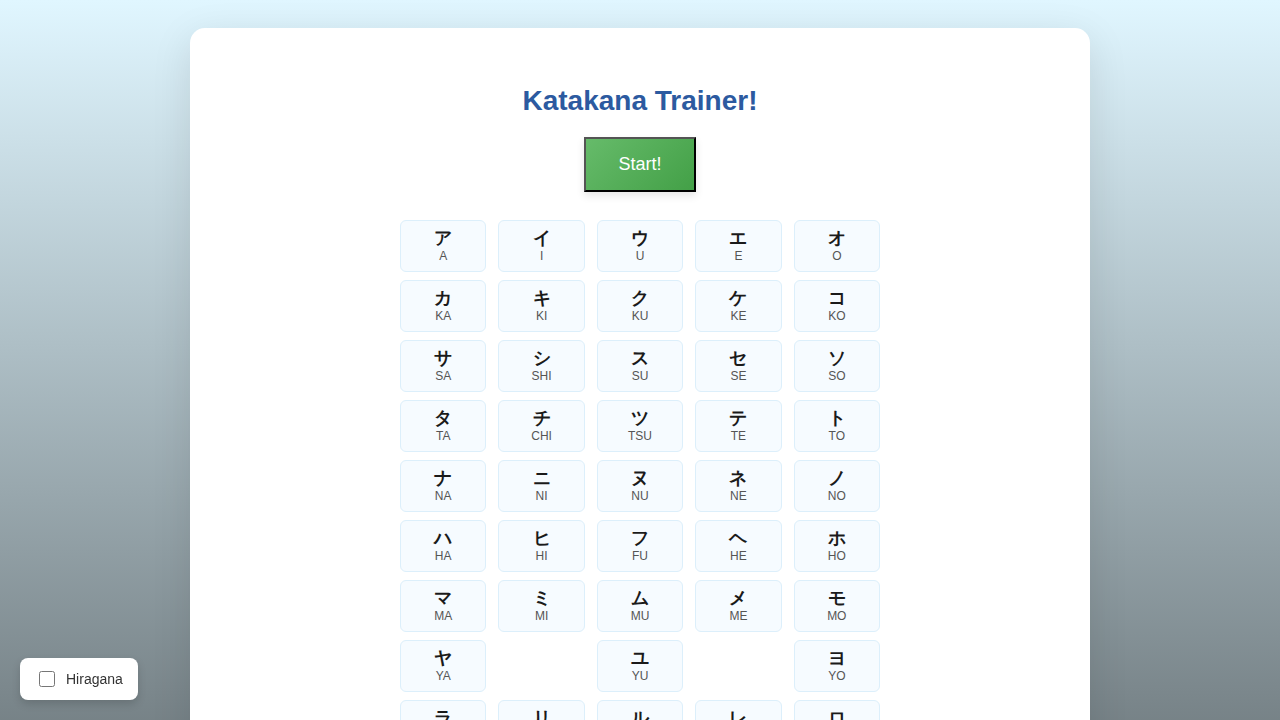
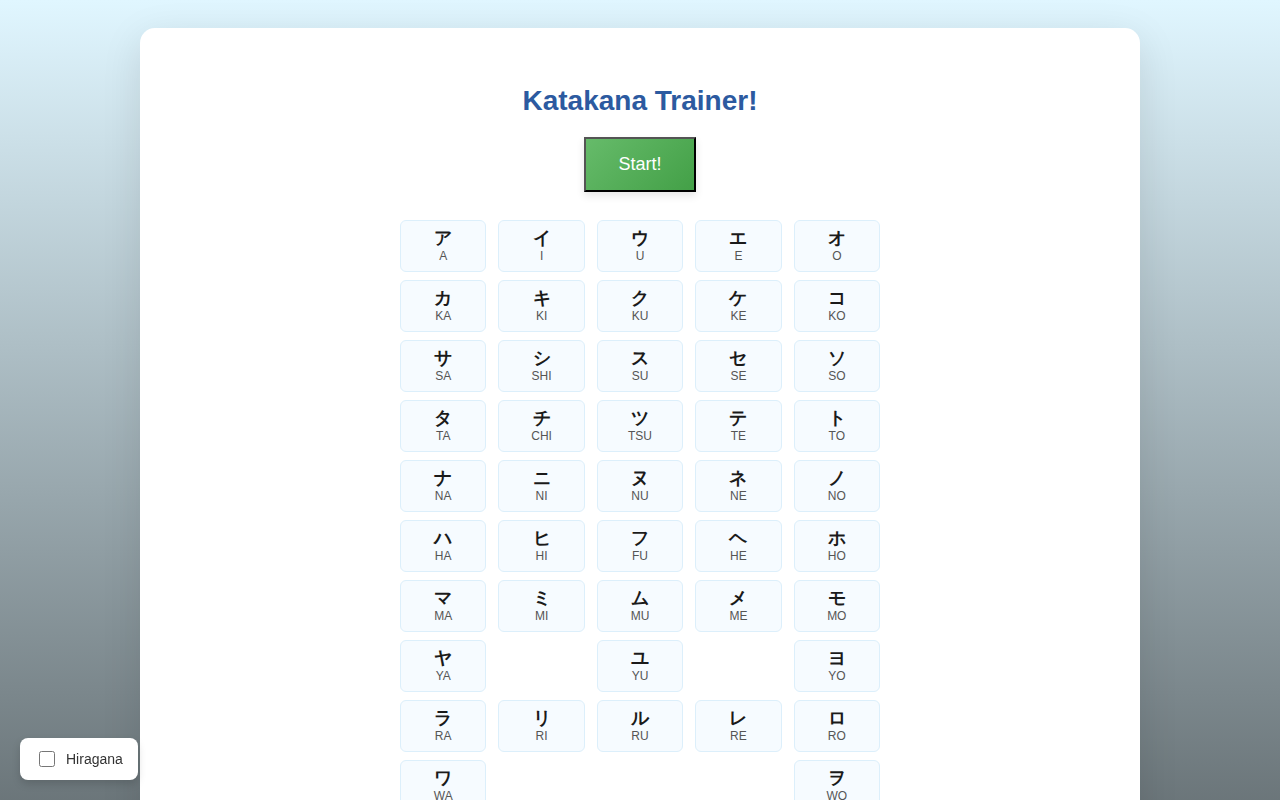
Refine Katakana Trainer React app and fix UI/UX issues
- Implemented ESCAPE key listener to close cheat sheet modal.
- Fixed flashcard transition animations using a dual-card strategy for smooth sliding.
- Increased container width to 1000px and improved mobile responsiveness.
- Resolved layout overlapping issues between flashcards and input fields.
- Stabilized container width to prevent expansion during incorrect answers.
- Maintained TypeScript safety and verified with unit tests and screenshots.

diff --git a/src/components/Quiz.tsx b/src/components/Quiz.tsx
@@ -29,6 +29,23 @@ const Quiz: React.FC<QuizProps> = ({
   const [showSounds, setShowSounds] = useState(false);
   const inputRef = useRef<HTMLInputElement>(null);
 
+  // We keep track of the displayed words to ensure smooth transitions
+  const [displayWord, setDisplayWord] = useState('');
+  const [nextDisplayWord, setNextDisplayWord] = useState('');
+
+  useEffect(() => {
+    const currentDisplayText = useHiragana ? toHiragana(currentWord.katakana) : currentWord.katakana;
+    const word = showSounds ? getKanaRomajiRubyHTML(currentDisplayText) : currentDisplayText;
+    setDisplayWord(word);
+
+    if (nextWord) {
+      const nextDisplayText = useHiragana ? toHiragana(nextWord.katakana) : nextWord.katakana;
+      setNextDisplayWord(nextDisplayText);
+    } else {
+      setNextDisplayWord('');
+    }
+  }, [currentWord, nextWord, useHiragana, showSounds]);
+
   useEffect(() => {
     if (!animatingNext) {
       if (inputRef.current) {
@@ -38,7 +55,7 @@ const Quiz: React.FC<QuizProps> = ({
       setUserAnswer('');
       setShowSounds(false);
     }
-  }, [currentWord, animatingNext]);
+  }, [currentIndex, animatingNext]);
 
   const handleSubmit = () => {
     const result = onSubmit(userAnswer);
@@ -52,24 +69,24 @@ const Quiz: React.FC<QuizProps> = ({
   };
 
   const currentDisplayText = useHiragana ? toHiragana(currentWord.katakana) : currentWord.katakana;
-  const displayWord = showSounds ? getKanaRomajiRubyHTML(currentDisplayText) : currentDisplayText;
-
-  const nextDisplayText = nextWord ? (useHiragana ? toHiragana(nextWord.katakana) : nextWord.katakana) : '';
 
   return (
     <div className="flashcard-section show" style={{ position: 'relative' }}>
       <div className="progress">
         <span id="progress-text">Question {currentIndex + 1} of {total}</span>
       </div>
-      <div style={{ position: 'relative', minHeight: '200px', marginBottom: '30px' }}>
+      <div className="flashcard-container" style={{ position: 'relative', minHeight: '200px', marginBottom: '30px' }}>
         <Flashcard
+          key={`current-${currentIndex}`}
           word={displayWord}
           slideClass={animatingNext ? 'slide-right' : 'slide-nowhere'}
           style={{ position: 'absolute', width: '100%' }}
         />
         <Flashcard
-          word={nextDisplayText}
+          key={`next-${currentIndex}`}
+          word={nextDisplayWord}
           slideClass={animatingNext ? 'slide-nowhere' : 'slide-left'}
+          style={{ visibility: nextWord ? 'visible' : 'hidden' }}
         />
       </div>
 

diff --git a/src/App.css b/src/App.css
@@ -4,8 +4,9 @@
             box-shadow: 0 10px 40px rgba(0, 0, 0, 0.1);
             /* reduced padding (~20% shorter visual height) */
             padding: 32px;
-            max-width: 900px;
+            max-width: 1000px;
             width: 100%;
+            overflow-x: hidden;
         }
 
         /* Start/Cheat Sheet View */
@@ -114,7 +115,7 @@
             border-radius: 12px;
             padding: 60px 20px;
             text-align: center;
-            margin-bottom: 30px;
+            margin-bottom: 0;
             box-shadow: 0 8px 16px rgba(0, 0, 0, 0.1);
             min-height: 200px;
             display: flex;
@@ -130,7 +131,7 @@
 
         .flashcard.slide-left {
             transform: translateX(-100vw);
-            transition: none !important;
+            transition: none;
             /* instantly to left slide */
         }
 
@@ -139,7 +140,8 @@
             margin-top: 8px;
             color: #333;
             font-size: 14px;
-            white-space: pre;
+            white-space: pre-wrap;
+            word-break: break-all;
         }
 
         .flashcard-section {
@@ -464,7 +466,8 @@
             .container {
                 border-radius: 0;
                 box-shadow: none;
-                padding: 5px;
+                padding: 12px;
+                max-width: 100%;
             }
 
             .progress {

diff --git a/src/App.tsx b/src/App.tsx
@@ -27,6 +27,16 @@ function App() {
     document.title = title;
   }, [useHiragana]);
 
+  useEffect(() => {
+    const handleKeyDown = (e: KeyboardEvent) => {
+      if (e.key === 'Escape') {
+        setShowCheatModal(false);
+      }
+    };
+    window.addEventListener('keydown', handleKeyDown);
+    return () => window.removeEventListener('keydown', handleKeyDown);
+  }, []);
+
   const handleStartQuiz = () => {
     const words = getWordsFromURL() || getRandomSubset(10, VOCABULARY);
     setCurrentWordList(words);
